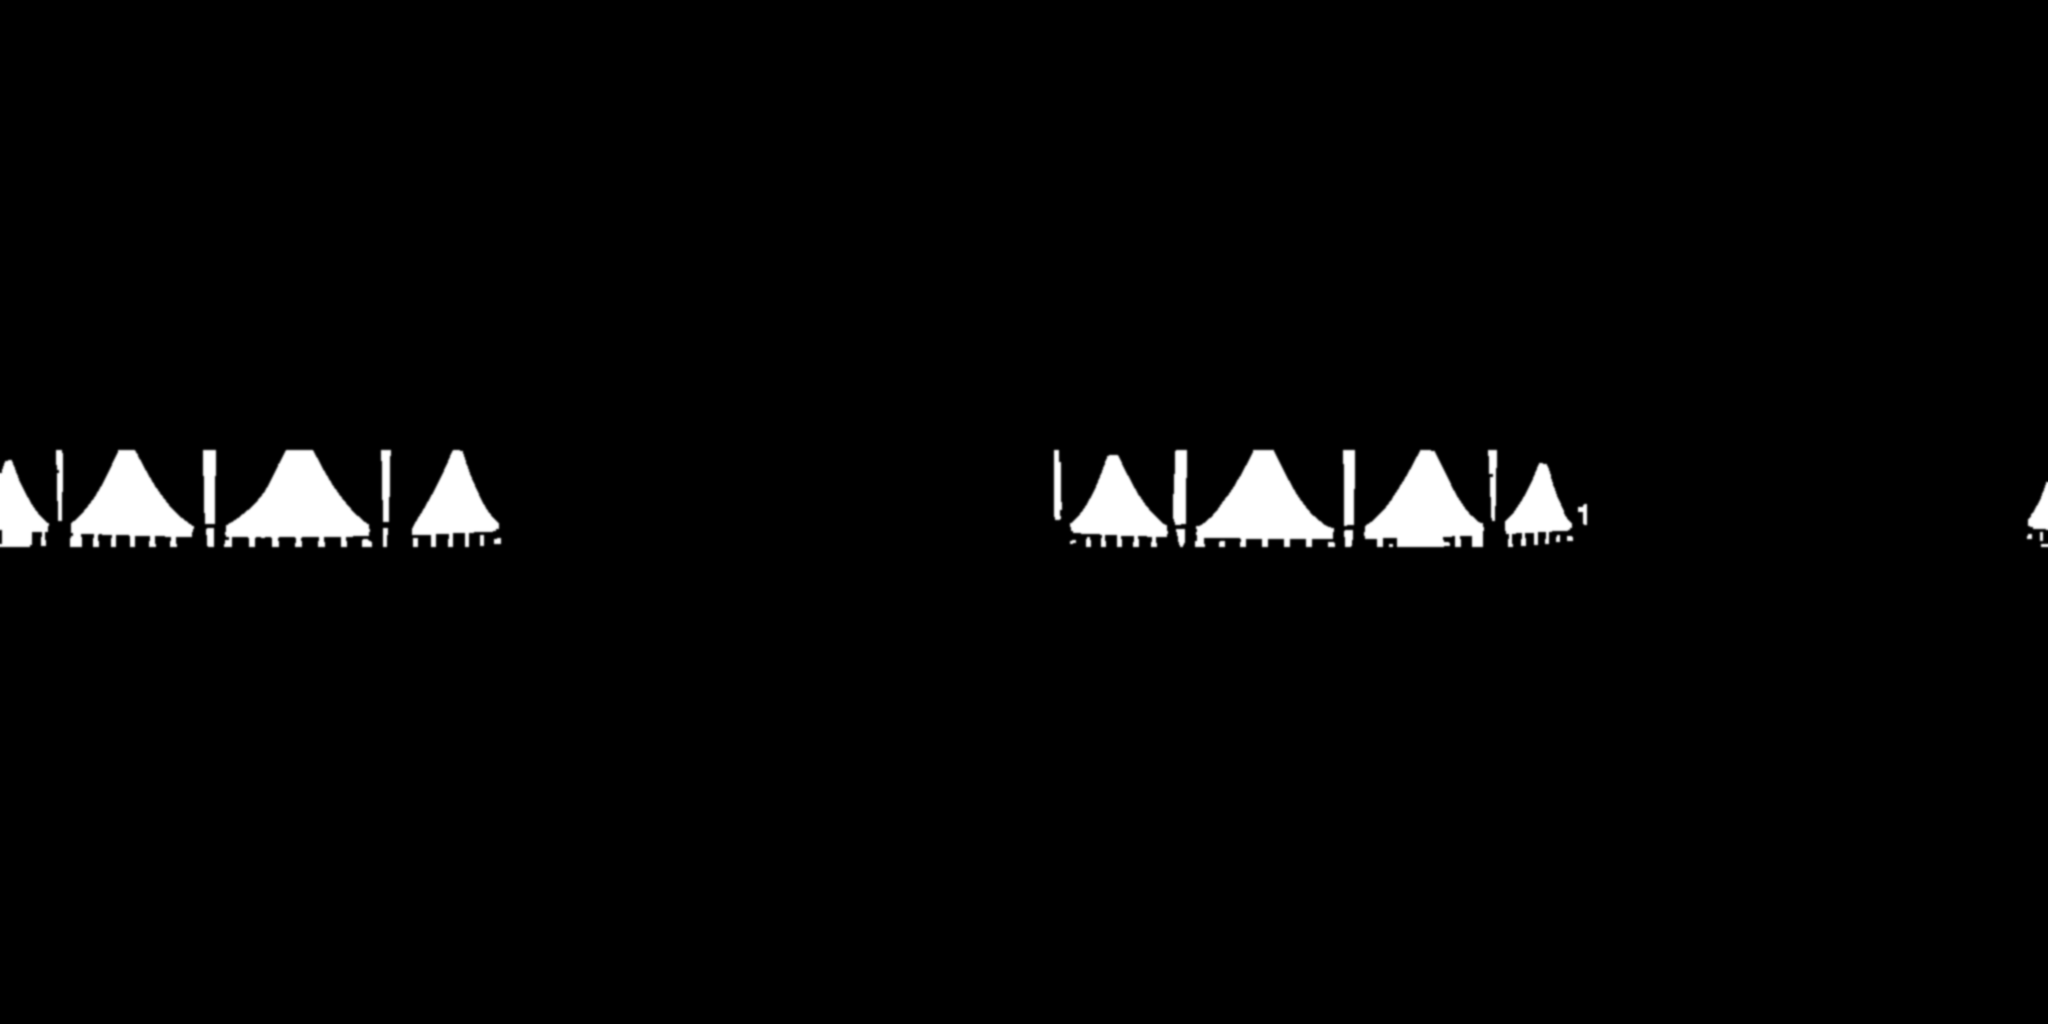
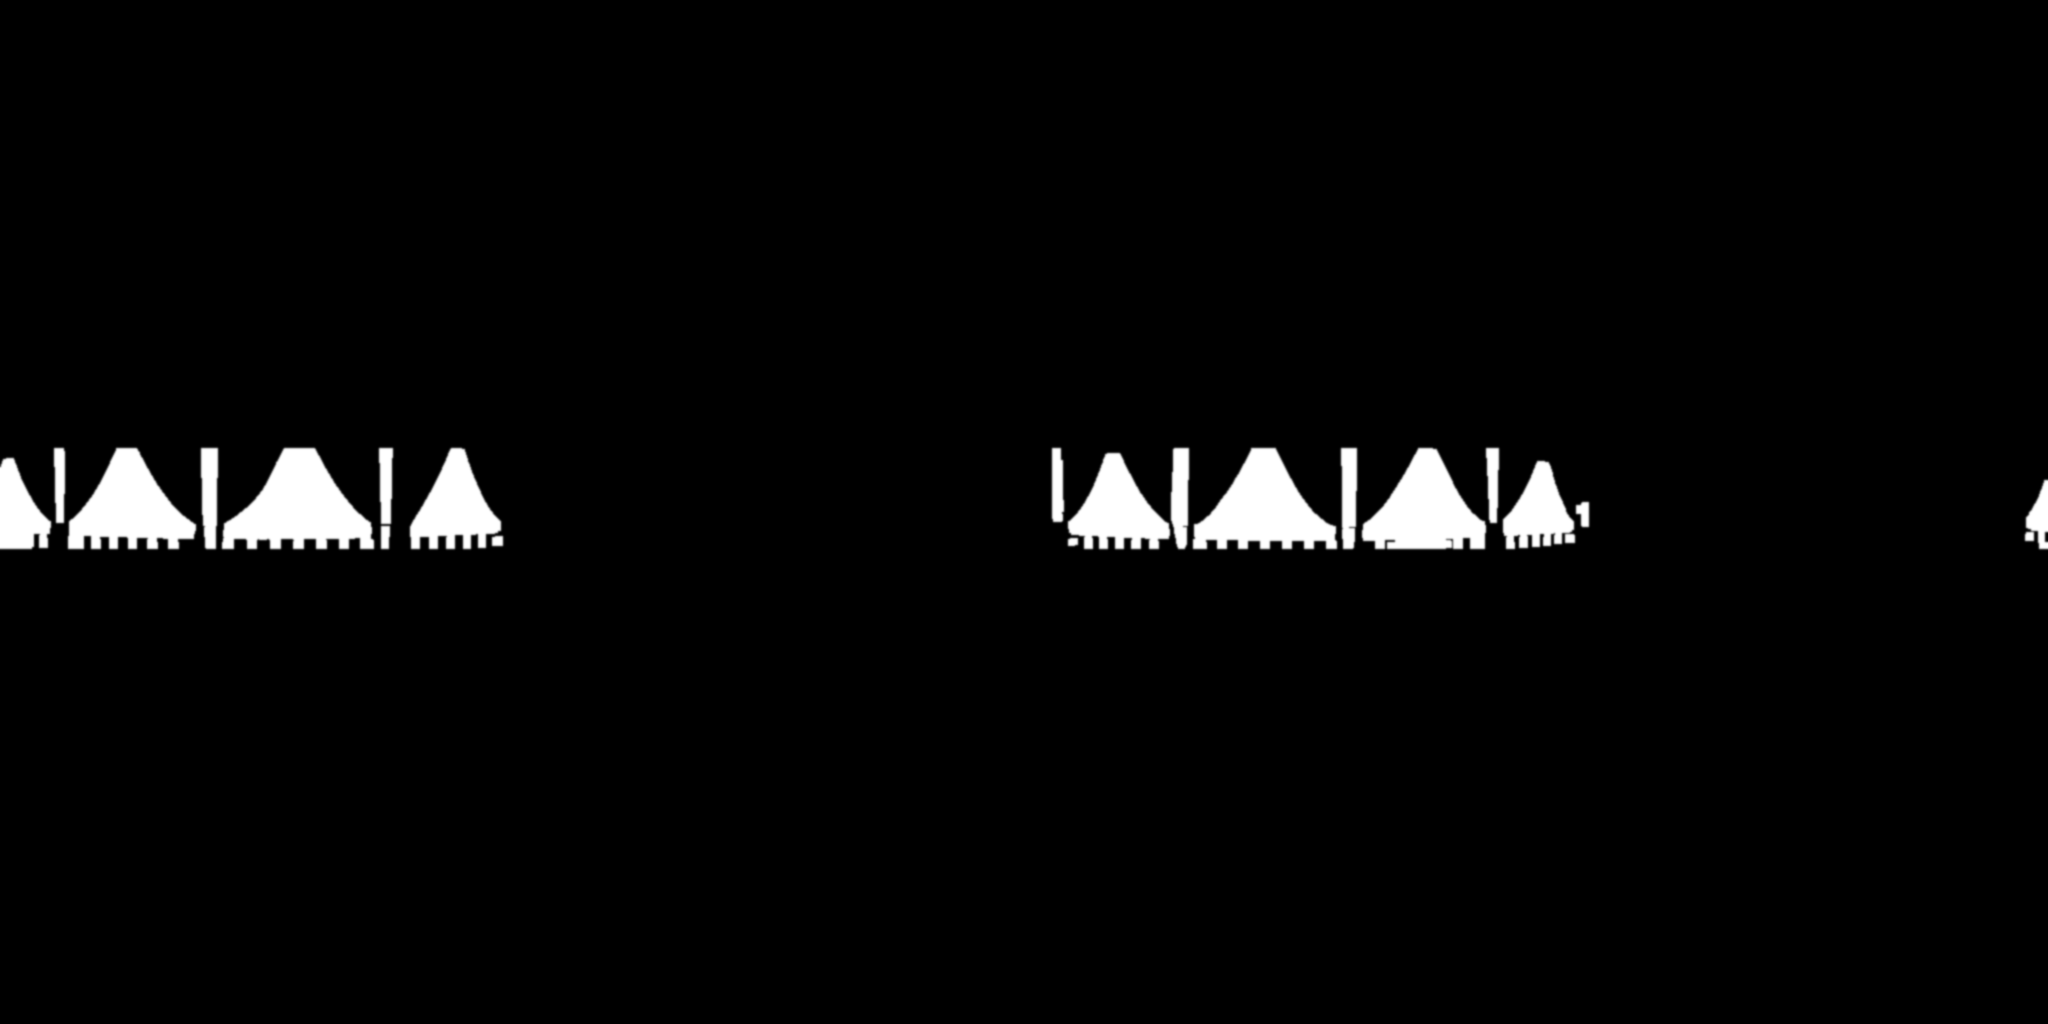
fix(vr-workout): the views are really out there — the panes are cut out of the room and the landscape is the sky behind them (true depth in the headset, not painted on the wall); a clean sunset lagoon for the sea; no bright fringe at the frames (1.1.435-ai)
Claude-Session: https://claude.ai/code/session_01QpWaUdrQjvqV75n6Vr3uJb

Changed region(s): [[0.5, 0.4375, 0.7812, 0.5625], [0.0, 0.4375, 0.25, 0.5625], [0.9688, 0.5, 1.0, 0.5312]]

diff --git a/branding/report/licenses.html b/branding/report/licenses.html
@@ -56,7 +56,7 @@
   <ul>
     <li><b>"Brutalist Interior" — vslite</b><span class="lic">CC BY 4.0</span><span class="src">sketchfab.com</span></li>
     <li><b>Basement Boxing Ring · Adams Place Bridge · Crossfit Gym · Dancing Hall · Neon Photostudio · Mirrored Hall</b><span class="lic">CC0</span><span class="src">polyhaven.com</span></li>
-    <li><b data-en="Simons Town Rocks · Champagne Castle 1 (the views out of the windows)">Simons Town Rocks · Champagne Castle 1 (гледките през прозорците)</b><span class="lic">CC0</span><span class="src">polyhaven.com</span></li>
+    <li><b data-en="Venice Sunset · Champagne Castle 1 (the views out of the windows)">Venice Sunset · Champagne Castle 1 (гледките през прозорците)</b><span class="lic">CC0</span><span class="src">polyhaven.com</span></li>
     <li><b data-en="Rogland Clear Night (sky) · Moon Rock 02, 03, 06">Rogland Clear Night (небе) · Moon Rock 02, 03, 06</b><span class="lic">CC0</span><span class="src">polyhaven.com</span></li>
     <li><b>Inter — Rasmus Andersson</b><span class="lic">SIL OFL 1.1</span></li>
   </ul>

diff --git a/vr-workout/convert/window_masks.py b/vr-workout/convert/window_masks.py
@@ -9,7 +9,7 @@ ROOMS = {
  "dancing_hall": (0.80, [(0.0, 0.25, 0.44, 0.535), (0.515, 0.775, 0.44, 0.535), (0.985, 1.0, 0.44, 0.535)]),
  "mirrored_hall": (0.80, [(0.42, 0.635, 0.43, 0.54), (0.66, 0.72, 0.28, 0.555),
                           (0.76, 0.88, 0.42, 0.55)]),
- "neon_studio": (0.80, [(0.68, 0.90, 0.44, 0.565)]),
+ "neon_studio": (0.80, [(0.68, 0.90, 0.44, 0.556)]),
 }
 src_dir, out_dir = sys.argv[1], sys.argv[2]
 W, H = 2048, 1024
@@ -25,6 +25,7 @@ for name, (thr, boxes) in ROOMS.items():
     mi = Image.fromarray((m * 255).astype(np.uint8))
     mi = mi.filter(ImageFilter.MinFilter(3)).filter(ImageFilter.MaxFilter(3))
     mi = mi.filter(ImageFilter.MaxFilter(3)).filter(ImageFilter.MinFilter(3))
+    mi = mi.filter(ImageFilter.MaxFilter(5))      # a little over the frame: no bright fringe of the old glass left
     mi = mi.filter(ImageFilter.GaussianBlur(1.0))
     mi.save(f"{out_dir}/{name}_win.png", optimize=True)
     a = np.asarray(mi)[..., None] / 255

diff --git a/vr-workout/assets/CREDITS.md b/vr-workout/assets/CREDITS.md
@@ -8,7 +8,7 @@
 | `rooms/dancing_hall.jpg` | Poly Haven "Dancing Hall" by Sergej Majboroda — https://polyhaven.com/a/dancing_hall (8K HDR, tone-mapped) | CC0 |
 | `rooms/neon_studio.jpg` | Poly Haven "Neon Photostudio" by Sergej Majboroda — https://polyhaven.com/a/neon_photostudio (8K HDR, tone-mapped) | CC0 |
 | `rooms/mirrored_hall.jpg` | Poly Haven "Mirrored Hall" by Grzegorz Wronkowski — https://polyhaven.com/a/mirrored_hall (8K HDR, tone-mapped) | CC0 |
-| `views/sea.jpg` | Poly Haven "Simons Town Rocks" by Greg Zaal — https://polyhaven.com/a/simons_town_rocks (4K HDR, tone-mapped; the sea out of the rooms' windows) | CC0 |
+| `views/sea.jpg` | Poly Haven "Venice Sunset" by Greg Zaal — https://polyhaven.com/a/venice_sunset (4K HDR, tone-mapped; the sea out of the rooms' windows) | CC0 |
 | `views/mountain.jpg` | Poly Haven "Champagne Castle 1" by Greg Zaal — https://polyhaven.com/a/champagne_castle_1 (4K HDR, tone-mapped; the mountains out of the windows) | CC0 |
 | `rooms/*_win.png` | own work: window masks made from the room photos (`convert/window_masks.py`) | — |
 | `rooms/bridge.jpg` | Poly Haven "Adams Place Bridge" (4K EXR, tone-mapped) | CC0 |

diff --git a/vr-workout/README.md b/vr-workout/README.md
@@ -83,8 +83,9 @@ two lit words — all in the combo's colour); and 8K 360° photos (Poly Haven, C
 studio, mirrored hall, bridge. A photo is painted on a cylinder the size of the real room (`radius`, `height`) round
 the spot it was shot from, and **the player stands on that spot** — the only place a photo is undistorted; `yaw` turns
 the open floor ahead; things fly in from up to `radius − 0.4` m. The rooms with windows (`windows`: a mask from
-`convert/window_masks.py`) look out on the sea or the mountains (`assets/views`, setting "Прозорци"):
-the shader swaps the blown-out glass for the landscape in the same direction; `view_yaw` aims it.
+`convert/window_masks.py`) look out on the sea or the mountains (`assets/views`, setting "Прозорци"): the room
+shader cuts the panes out and the sky behind becomes the landscape (`shaders/view_sky.gdshader`), infinitely far,
+so in the headset it is out there behind the glass; `view_yaw` aims it.
 **Desktop tests (no headset):**
 ```
 godot --path vr-workout -- --sim=1 --skiptut=1 --levels=1 --level=4 --skill=0.8 --timescale=6   # plays itself, prints LEVEL … done
